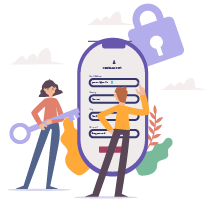
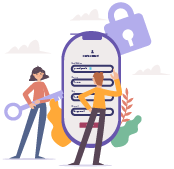
Membuat views auth

diff --git a/assets/user/css/style.css b/assets/user/css/style.css
@@ -2315,6 +2315,12 @@ h3 {
   }
 }
 
+@media (min-width: 768px) {
+  #logo-registrasi {
+    display: none;
+  }
+}
+
 /* line 204, C:/Users/SPN Graphics/Desktop/CL September/Edu mark/207 Education/HTML/scss/_bradcam.scss */
 #test-form button.mfp-close,
 #test-form2 button.mfp-close,

diff --git a/application/views/User/footer/footer.php b/application/views/User/footer/footer.php
@@ -95,7 +95,7 @@
                         <!-- Link back to Colorlib can't be removed. Template is licensed under CC BY 3.0. -->
                         Copyright &copy;<script>
                             document.write(new Date().getFullYear());
-                        </script> All rights reserved | This template is made with <i class="fa fa-heart-o" aria-hidden="true"></i> by <a href="https://colorlib.com" target="_blank">Colorlib</a>
+                        </script> All rights reserved | Website ini dibuat dengan penuh <i class="fa fa-heart-o" aria-hidden="true"></i> oleh <a href="https://sobatkode.com" target="_blank">Sobat Kode</a>
                         <!-- Link back to Colorlib can't be removed. Template is licensed under CC BY 3.0. -->
                     </p>
                 </div>
@@ -105,105 +105,14 @@
 </footer>
 <!-- footer -->
 
+<!-- login -->
+<?php include APPPATH.'views/auth/login.php';?>
 
-<!-- form itself end-->
-<div id="test-form" class="white-popup-block mfp-hide">
-    <div class="popup_box ">
-        <div class="popup_inner">
-            <div class="logo text-center">
-                <a href="#">
-                    <img src="<?= base_url('assets/user/'); ?>img/auth/login.png" alt="">
-                </a>
-            </div>
-            <h3 class="text-center">Log In</h3>
-            <form action="<?= base_url('auth/login'); ?>" method="POST">
-                <div class="row">
-                    <div class="col-xl-12 col-md-12">
-                        <input type="text" placeholder="Enter email" name="email" id="email">
-                    </div>
-                    <div class="col-xl-12 col-md-12">
-                        <input type="password" placeholder="Password" name="password" id="password">
-                    </div>
-                    <div class="col-xl-12">
-                        <button type="submit" class="genric-btn info circle">Sign in</button>
-                    </div>
-                </div>
-            </form>
-            <p class="doen_have_acc">Belum punya akun? <a class="dont-hav-acc" href="#test-form2">Registrasi</a>
-            </p>
-            <p class="doen_have_acc" style="margin-top: -15px;"><a class="dont-hav-acc" href="#test-form3">Anda lupa password? Lupa Password</a>
-            </p>
-        </div>
-    </div>
-</div>
-<!-- form itself end -->
+<!-- registrasi -->
+<?php include APPPATH.'views/auth/registrasi.php';?>
 
-<!-- form itself end-->
-<div id="test-form2" class="white-popup-block mfp-hide">
-    <div class="popup_box ">
-        <div class="popup_inner">
-            <br><br><br><br><br><br><br><br><br><br>
-            <div class="logo text-center">
-                <a href="#">
-                    <img src="<?= base_url('assets/user/'); ?>img/auth/registrasi.png" alt="">
-                </a>
-            </div>
-            <h3 class="text-center">Registrasi</h3>
-            <form action="#">
-                <div class="row">
-                    <div class="col-xl-12 col-md-12">
-                        <input type="text" placeholder="Masukkan Email" name="email" id="email">
-                    </div>
-                    <div class="col-xl-12 col-md-12">
-                        <input type="text" placeholder="Masukkan Nama" name="name" id="name">
-                    </div>
-                    <div class="col-xl-12 col-md-12">
-                        <input type="number" placeholder="Masukkan No. Telepon" name="telepon" id="telepon">
-                    </div>
-                    <div class="col-xl-12 col-md-12">
-                        <input type="password" placeholder="Password" name="password1" id="password1">
-                    </div>
-                    <div class="col-xl-12 col-md-12">
-                        <input type="Password" placeholder="Konfirmasi Password" name="password2" id="password2">
-                    </div>
-                    <div class="col-xl-12">
-                        <button type="submit" class="genric-btn primary circle">Daftar</button>
-                    </div>
-                </div>
-            </form>
-            <p class="doen_have_acc">Sudah punya akun? <a class="dont-hav-acc" href="#test-form">Kembali ke login</a>
-            </p>
-        </div>
-    </div>
-</div>
-<!-- form itself end -->
-
-<!-- form itself end-->
-<div id="test-form3" class="white-popup-block mfp-hide">
-    <div class="popup_box ">
-        <div class="popup_inner">
-            <div class="logo text-center">
-                <a href="#">
-                    <img src="<?= base_url('assets/user/'); ?>img/auth/forgot.png" alt="">
-                </a>
-            </div>
-            <h3 class="text-center">Lupa Password</h3>
-            <form action="#">
-                <div class="row">
-                    <div class="col-xl-12 col-md-12">
-                        <input type="text" placeholder="Masukkan Email" name="email" id="email">
-                    </div>
-                    <div class="col-xl-12">
-                        <button type="submit" class="genric-btn primary circle">Cek Email</button>
-                    </div>
-                </div>
-            </form>
-            <p class="doen_have_acc">Sudah ingat password? <a class="dont-hav-acc" href="#test-form">Kembali ke login</a>
-            </p>
-        </div>
-    </div>
-</div>
-<!-- form itself end -->
+<!-- lupa_password -->
+<?php include APPPATH.'views/auth/lupa_password.php';?>
 
 
 <!-- JS here -->

diff --git a/application/views/User/index.php b/application/views/User/index.php
@@ -5,7 +5,7 @@
                 <div class="row align-items-center justify-content-center">
                     <div class="col-xl-6 col-md-6">
                         <div class="illastrator_png">
-                            <img src="<?= base_url('assets/user/'); ?>img/banner/test.png" alt="">
+                            <img src="<?= base_url('assets/user/'); ?>img/banner/index.png" alt="">
                         </div>
                     </div>
                     <div class="col-xl-6 col-md-6">
@@ -29,10 +29,12 @@
                     <div class="single_about_info">
                         <h3>Kenapa Harus <br>
                             Amal Edukasi?</h3>
-                        <p>Our set he for firmament morning sixth subdue darkness creeping gathered divide our let god
-                            moving. Moving in fourth air night bring upon you’re it beast let you dominion likeness open
-                            place day great wherein heaven sixth lesser subdue fowl </p>
-                        <a href="#" class="boxed_btn">Enroll a Course</a>
+                        <p>
+                            Amal Edukasi merupakan try out online CPNS dan PKN STAN nomor satu diseluruh Indonesia,
+                            dengan soal-soal terbaik dan belum pernah ada sebelumnya.
+                            Try out ini dilengkapi dengan video pembelajaran yang sangat mudah dipahami,
+                            jadi tidak perlu repot-repot membeli bukunya, cukup buka amaledukasi.com belajar jadi lebih mudah!!
+                        </p>
                     </div>
                 </div>
                 <div class="col-xl-6 offset-xl-1 col-lg-6">
@@ -77,8 +79,7 @@
                 <div class="col-xl-12">
                     <div class="section_title text-center mb-100">
                         <h3>Video Pembelajaran</h3>
-                        <p>Your domain control panel is designed for ease-of-use and <br> allows for all aspects of your
-                            domains.</p>
+                        <p>Lihat video pembelajaran kami yukk!! <br> Banyak trik-trik jitu didalamnya.</p>
                     </div>
                 </div>
             </div>

diff --git a/application/views/auth/registrasi.php b/application/views/auth/registrasi.php
@@ -1,0 +1,38 @@
+<!-- form itself end-->
+<div id="test-form2" class="white-popup-block mfp-hide">
+    <div class="popup_box ">
+        <div class="popup_inner">
+            <div id="logo-registrasi" class="logo text-center">
+                <a href="#">
+                    <img src="<?= base_url('assets/user/'); ?>img/auth/registrasi.png" alt="">
+                </a>
+            </div>
+            <h3 class="text-center">Registrasi</h3>
+            <form action="#">
+                <div class="row">
+                    <div class="col-xl-12 col-md-12">
+                        <input type="text" placeholder="Masukkan Email" name="email" id="email">
+                    </div>
+                    <div class="col-xl-12 col-md-12">
+                        <input type="text" placeholder="Masukkan Nama" name="name" id="name">
+                    </div>
+                    <div class="col-xl-12 col-md-12">
+                        <input type="number" placeholder="Masukkan No. Telepon" name="telepon" id="telepon">
+                    </div>
+                    <div class="col-xl-12 col-md-12">
+                        <input type="password" placeholder="Password" name="password1" id="password1">
+                    </div>
+                    <div class="col-xl-12 col-md-12">
+                        <input type="Password" placeholder="Konfirmasi Password" name="password2" id="password2">
+                    </div>
+                    <div class="col-xl-12">
+                        <button type="submit" class="genric-btn primary circle">Daftar</button>
+                    </div>
+                </div>
+            </form>
+            <p class="doen_have_acc">Sudah punya akun? <a class="dont-hav-acc" href="#test-form">Kembali ke login</a>
+            </p>
+        </div>
+    </div>
+</div>
+<!-- form itself end -->

diff --git a/application/views/auth/login.php b/application/views/auth/login.php
@@ -1,0 +1,31 @@
+<!-- form itself end-->
+<div id="test-form" class="white-popup-block mfp-hide">
+    <div class="popup_box ">
+        <div class="popup_inner">
+            <div class="logo text-center">
+                <a href="#">
+                    <img src="<?= base_url('assets/user/'); ?>img/auth/login.png" alt="">
+                </a>
+            </div>
+            <h3 class="text-center">Log In</h3>
+            <form action="<?= base_url('auth/login'); ?>" method="POST">
+                <div class="row">
+                    <div class="col-xl-12 col-md-12">
+                        <input type="text" placeholder="Enter email" name="email" id="email">
+                    </div>
+                    <div class="col-xl-12 col-md-12">
+                        <input type="password" placeholder="Password" name="password" id="password">
+                    </div>
+                    <div class="col-xl-12">
+                        <button type="submit" class="genric-btn info circle">Sign in</button>
+                    </div>
+                </div>
+            </form>
+            <p class="doen_have_acc">Belum punya akun? <a class="dont-hav-acc" href="#test-form2">Registrasi</a>
+            </p>
+            <p class="doen_have_acc" style="margin-top: -15px;"><a class="dont-hav-acc" href="#test-form3">Anda lupa password? Lupa Password</a>
+            </p>
+        </div>
+    </div>
+</div>
+<!-- form itself end -->

diff --git a/application/views/auth/lupa_password.php b/application/views/auth/lupa_password.php
@@ -1,0 +1,26 @@
+<!-- form itself end-->
+<div id="test-form3" class="white-popup-block mfp-hide">
+    <div class="popup_box ">
+        <div class="popup_inner">
+            <div class="logo text-center">
+                <a href="#">
+                    <img src="<?= base_url('assets/user/'); ?>img/auth/forgot.png" alt="">
+                </a>
+            </div>
+            <h3 class="text-center">Lupa Password</h3>
+            <form action="#">
+                <div class="row">
+                    <div class="col-xl-12 col-md-12">
+                        <input type="text" placeholder="Masukkan Email" name="email" id="email">
+                    </div>
+                    <div class="col-xl-12">
+                        <button type="submit" class="genric-btn primary circle">Cek Email</button>
+                    </div>
+                </div>
+            </form>
+            <p class="doen_have_acc">Sudah ingat password? <a class="dont-hav-acc" href="#test-form">Kembali ke login</a>
+            </p>
+        </div>
+    </div>
+</div>
+<!-- form itself end -->
